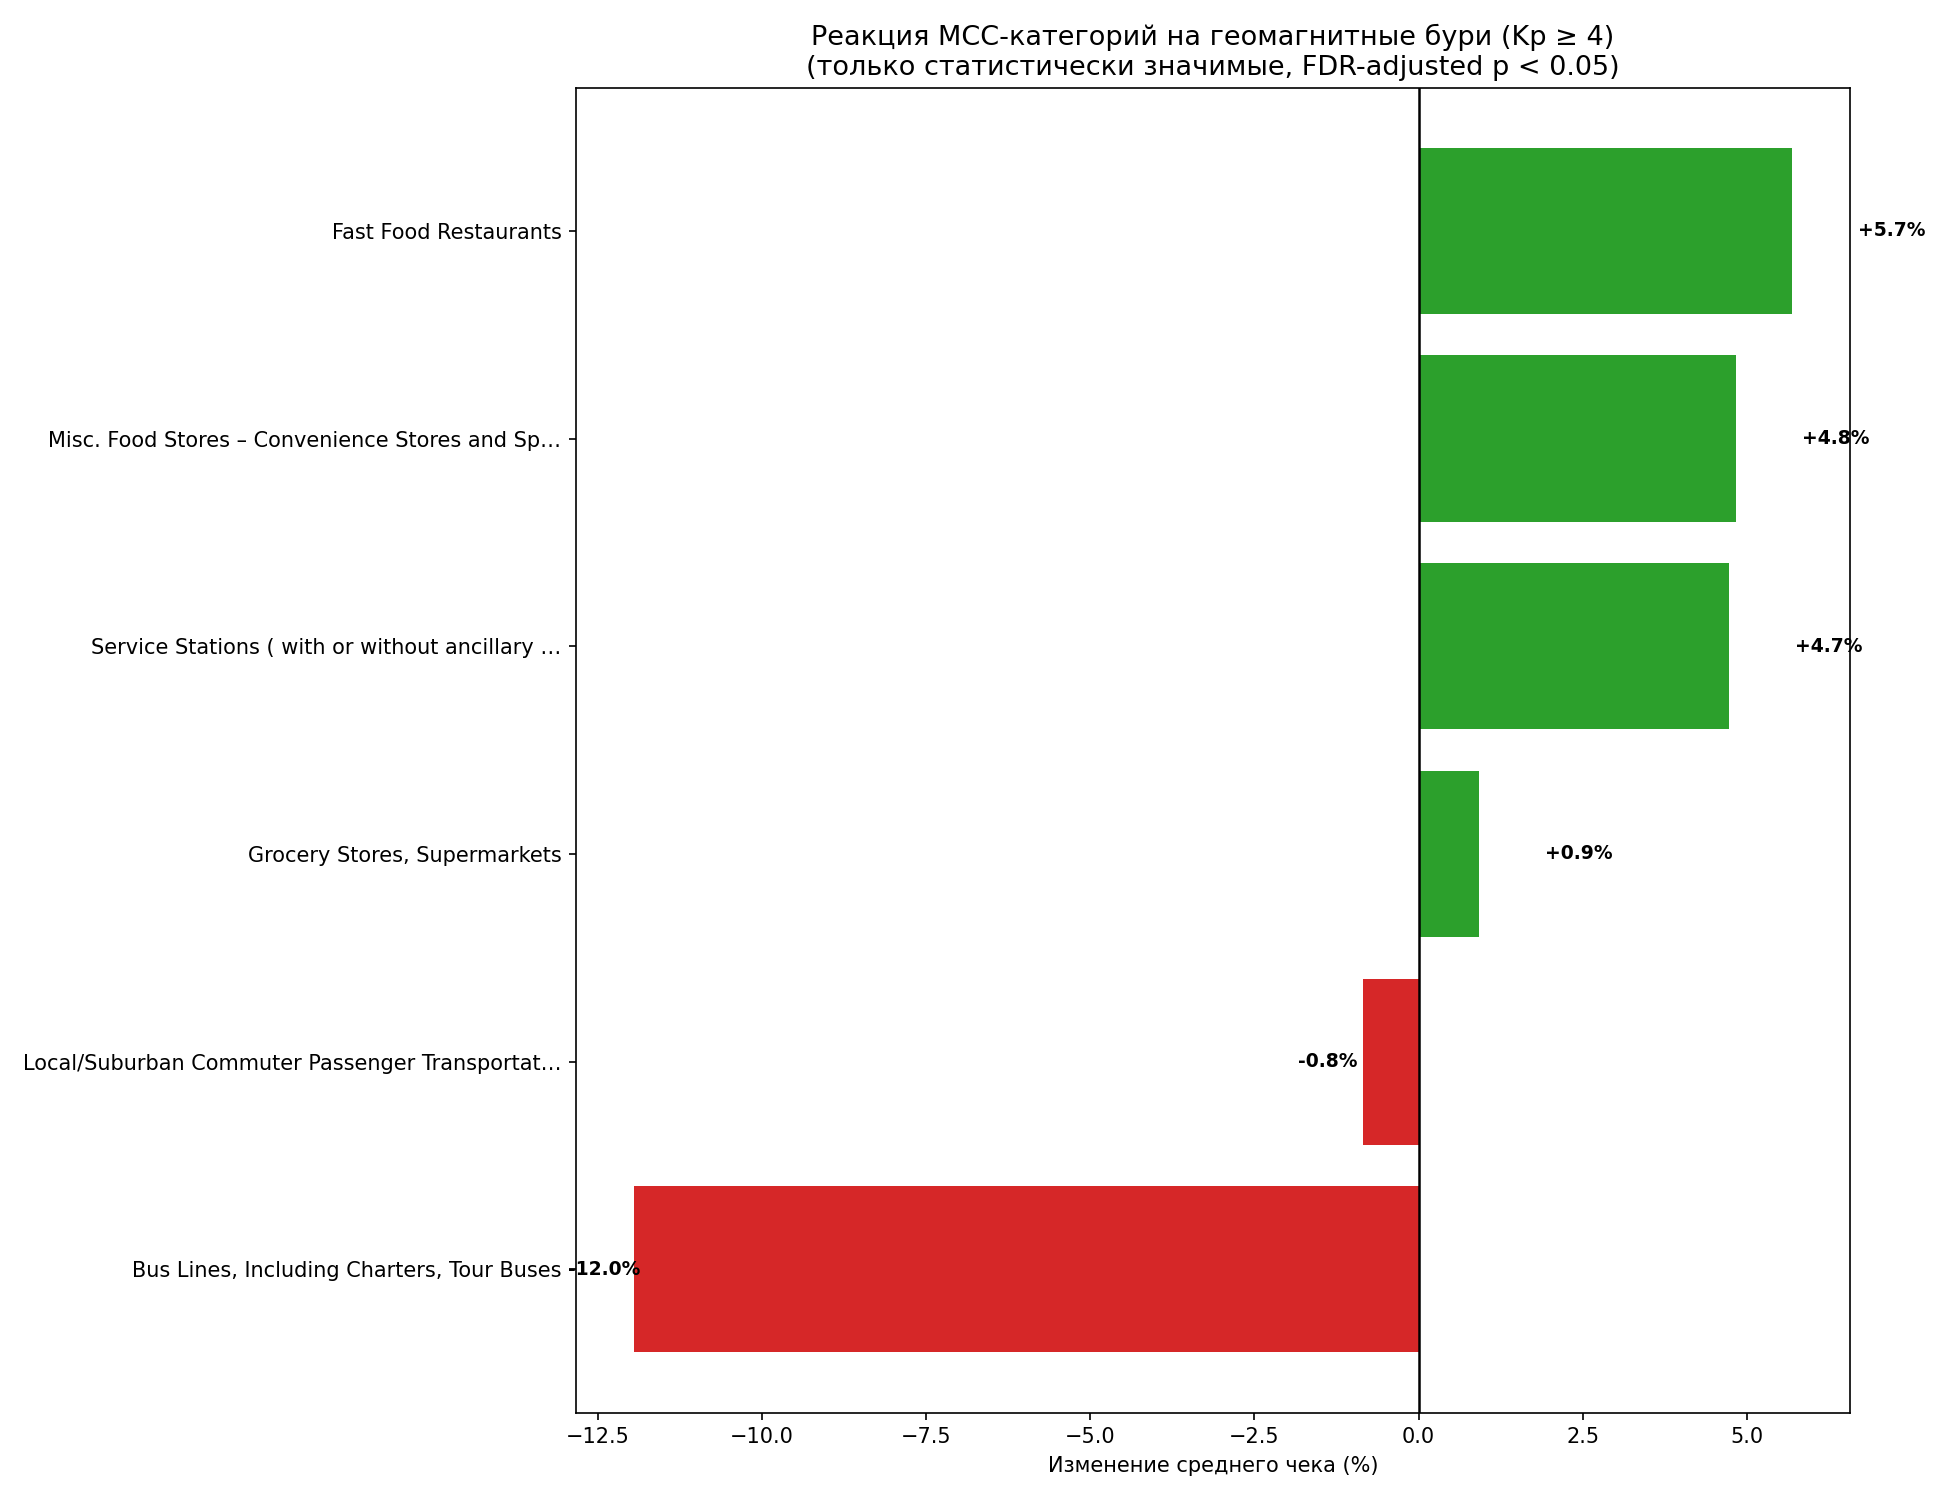
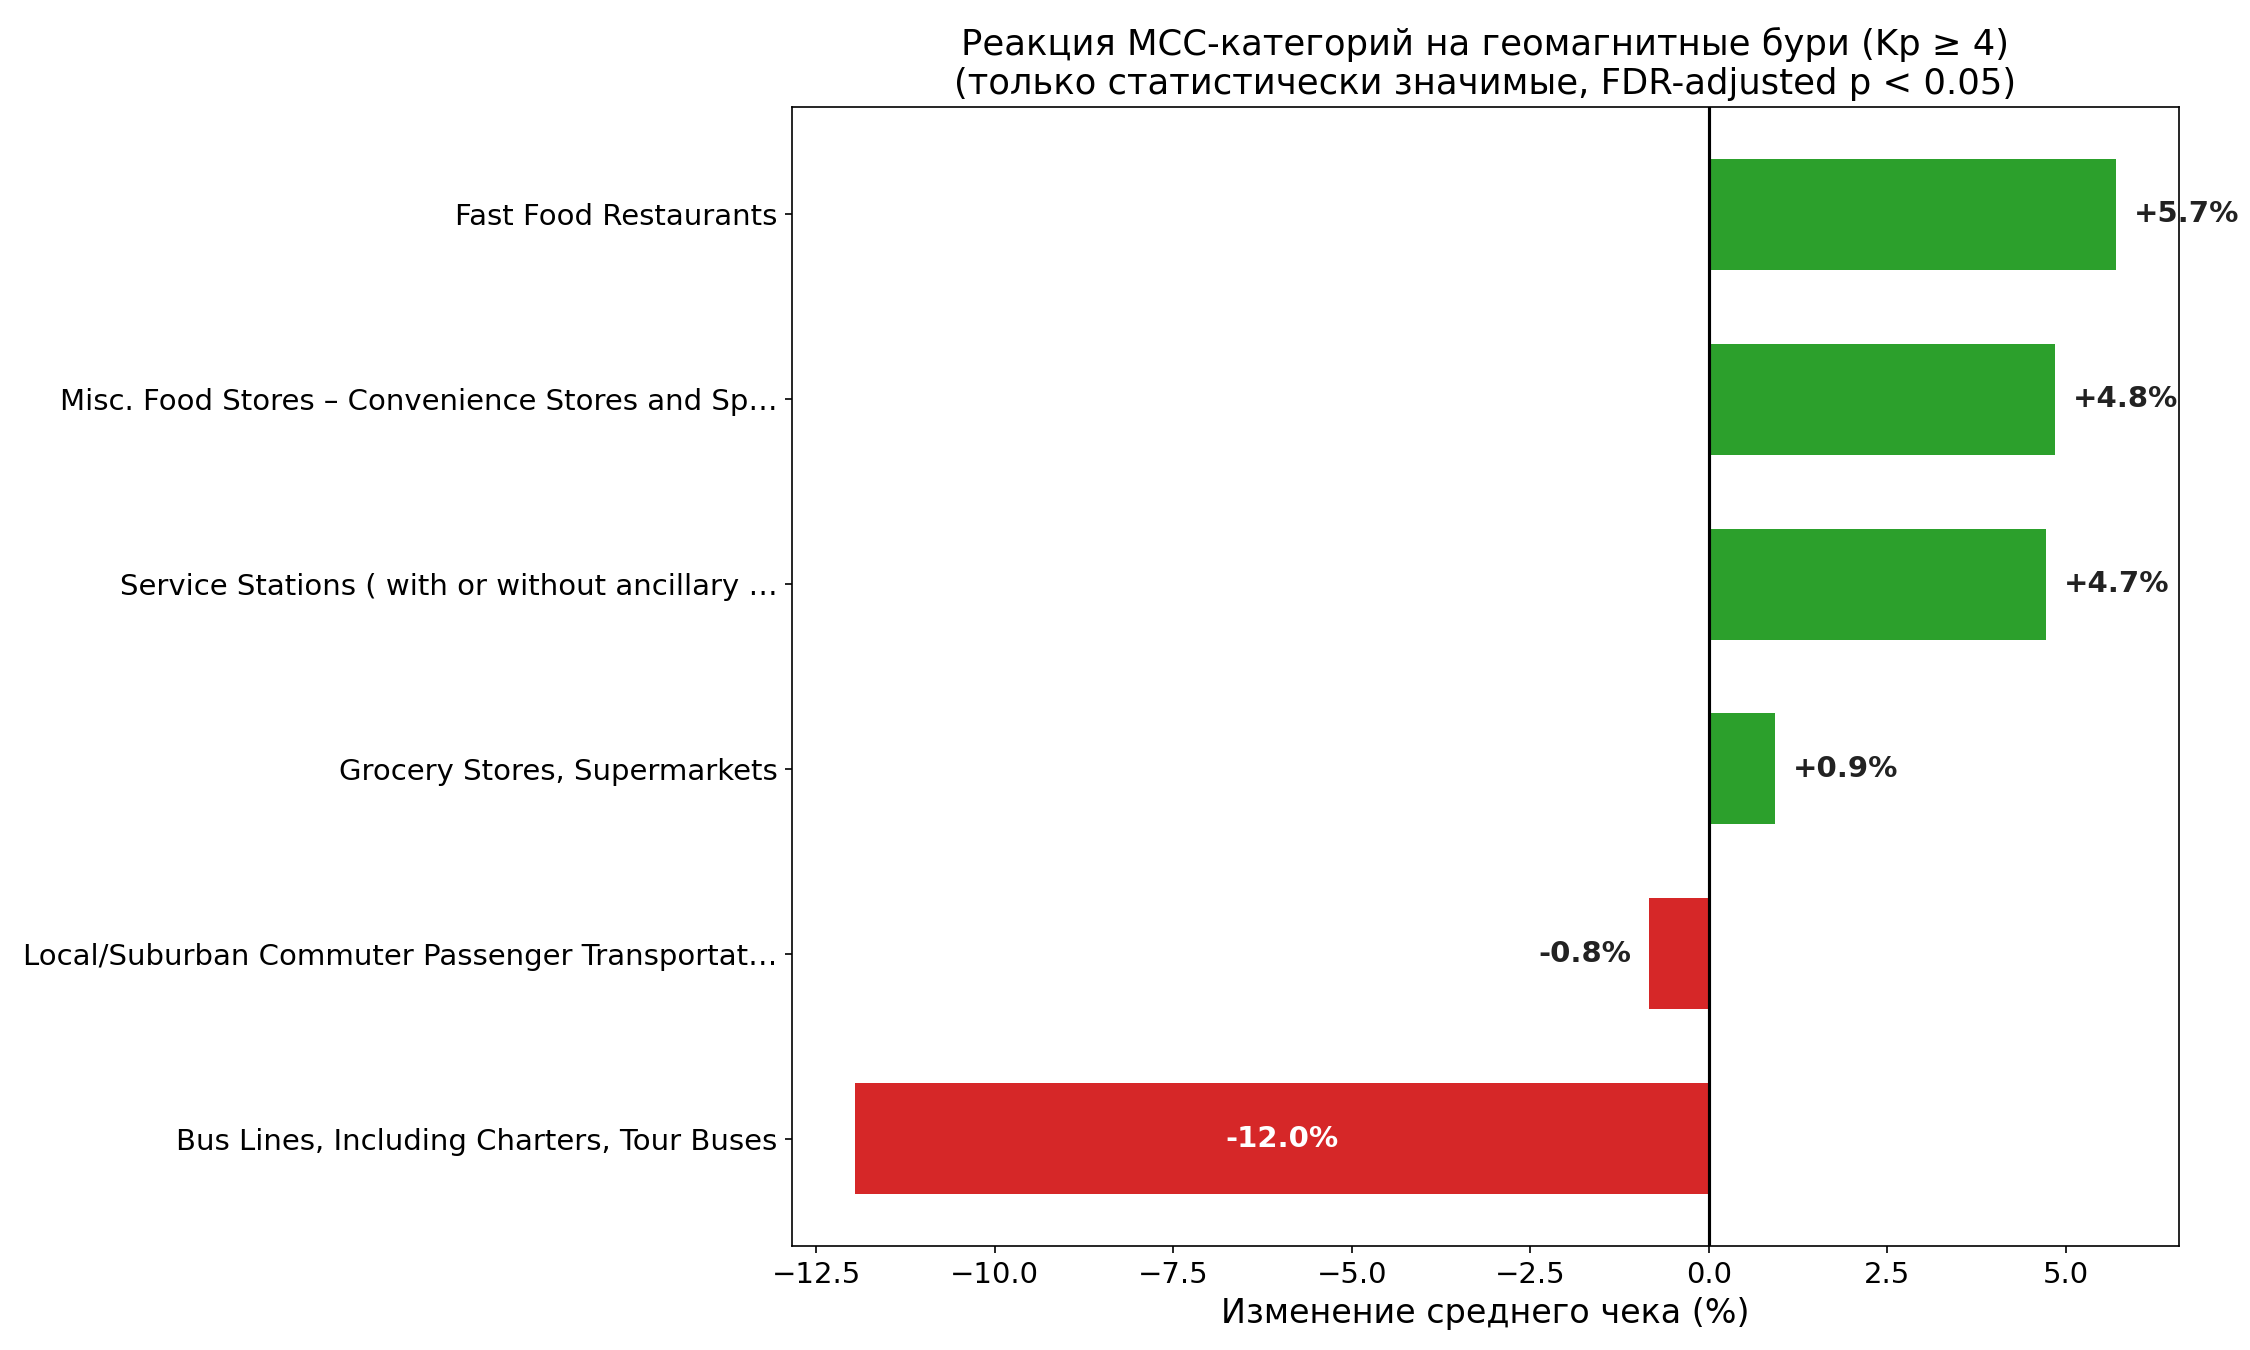
увеличен шрифт графика MCC-сдвигов

diff --git a/02_eda.py b/02_eda.py
@@ -111,16 +111,27 @@ def plot_mcc_shifts(df_mcc_analysis):
     colors = ["#d62728" if x < 0 else "#2ca02c" for x in top["pct_change"]]
     labels = [s[:45] + "…" if len(s) > 45 else s for s in top["mcc_name"]]
 
-    fig, ax = plt.subplots(figsize=(13, 10))
-    bars = ax.barh(labels, top["pct_change"], color=colors)
-    ax.axvline(0, color="black", linewidth=1.2)
-    ax.set_xlabel("Изменение среднего чека (%)")
-    ax.set_title("Реакция MCC-категорий на геомагнитные бури (Kp ≥ 4)\n(только статистически значимые, FDR-adjusted p < 0.05)", fontsize=13)
+    fig, ax = plt.subplots(figsize=(15, 9))
+    bars = ax.barh(labels, top["pct_change"], color=colors, height=0.6)
+    ax.axvline(0, color="black", linewidth=1.5)
+    ax.set_xlabel("Изменение среднего чека (%)", fontsize=16)
+    ax.set_title("Реакция MCC-категорий на геомагнитные бури (Kp ≥ 4)\n(только статистически значимые, FDR-adjusted p < 0.05)", fontsize=17)
+    ax.tick_params(axis="both", labelsize=14)
 
+    x_min = top["pct_change"].min()
     for bar in bars:
         w = bar.get_width()
-        ax.text(w + (1 if w > 0 else -1), bar.get_y() + bar.get_height() / 2,
-                f"{w:+.1f}%", va="center", fontsize=9, fontweight="bold")
+        offset = 0.3 if w >= 0 else -0.3
+        ha = "left" if w >= 0 else "right"
+        # для длинных отрицательных баров — ставим метку правее нуля
+        if w < x_min * 0.6:
+            ax.text(0.3, bar.get_y() + bar.get_height() / 2,
+                    f"{w:+.1f}%", va="center", ha="left",
+                    fontsize=14, fontweight="bold", color="white")
+        else:
+            ax.text(w + offset, bar.get_y() + bar.get_height() / 2,
+                    f"{w:+.1f}%", va="center", ha=ha,
+                    fontsize=14, fontweight="bold")
 
     plt.tight_layout()
     plt.savefig(PLOTS / "mcc_shifts.png", dpi=150)